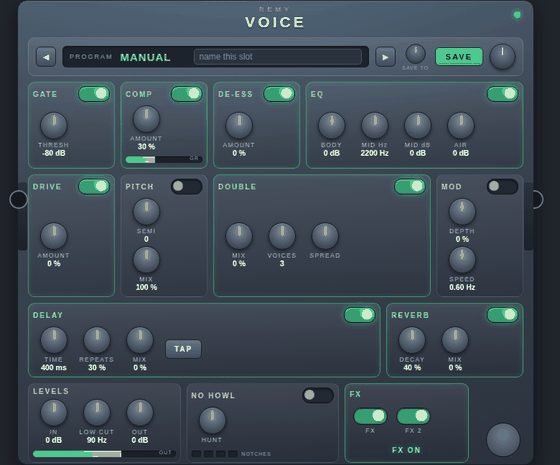
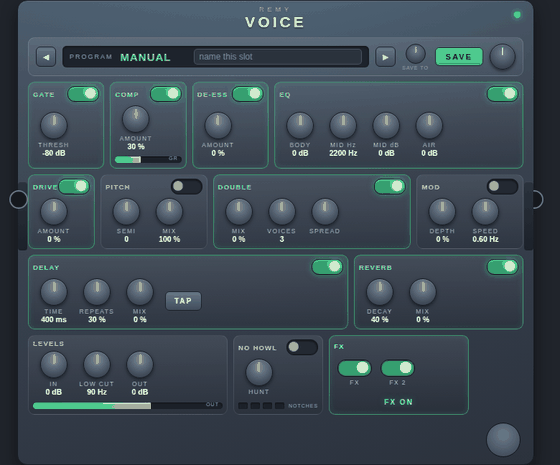
Voice: give every section the width its knobs need
Adding SPREAD to the doubler and a section for the anti-Larsen hunter
pushed two sections into wrapping their knobs onto a second row, which
dragged the whole row down with them. Sections are now sized by how many
knobs they hold - one class per width - rather than by one "wide" class
doing for all of them, and the section names no longer wrap either.

make_screenshot.js also reports where the content actually ends, so the
pedal's declared height can be checked against it rather than guessed.

Claude-Session: https://claude.ai/code/session_01CoYRVsCxy8zQtz4yC9Pa7v

Changed region(s): [[0.0304, 0.1806, 0.9411, 1.0]]

diff --git a/voice/modgui/icon-voice.html b/voice/modgui/icon-voice.html
@@ -46,7 +46,7 @@
 
     <!-- ---------------- the channel strip ---------------- -->
     <div class="voice-row{{{cns}}} voice-row-strip{{{cns}}}">
-        <div class="voice-section{{{cns}}}">
+        <div class="voice-section{{{cns}}} voice-w1{{{cns}}}">
             <div class="voice-section-head{{{cns}}}">
                 <span class="voice-section-name{{{cns}}}">GATE</span>
                 <div class="voice-sw{{{cns}}}" mod-role="input-control-port"
@@ -61,7 +61,7 @@
             </div>
         </div>
 
-        <div class="voice-section{{{cns}}}">
+        <div class="voice-section{{{cns}}} voice-w1{{{cns}}}">
             <div class="voice-section-head{{{cns}}}">
                 <span class="voice-section-name{{{cns}}}">COMP</span>
                 <div class="voice-sw{{{cns}}}" mod-role="input-control-port"
@@ -80,7 +80,7 @@
             </div>
         </div>
 
-        <div class="voice-section{{{cns}}}">
+        <div class="voice-section{{{cns}}} voice-w1{{{cns}}}">
             <div class="voice-section-head{{{cns}}}">
                 <span class="voice-section-name{{{cns}}}">DE-ESS</span>
                 <div class="voice-sw{{{cns}}}" mod-role="input-control-port"
@@ -95,7 +95,7 @@
             </div>
         </div>
 
-        <div class="voice-section{{{cns}}} voice-section-wide{{{cns}}}">
+        <div class="voice-section{{{cns}}} voice-w4{{{cns}}}">
             <div class="voice-section-head{{{cns}}}">
                 <span class="voice-section-name{{{cns}}}">EQ</span>
                 <div class="voice-sw{{{cns}}}" mod-role="input-control-port"
@@ -134,7 +134,7 @@
 
     <!-- ---------------- character ---------------- -->
     <div class="voice-row{{{cns}}} voice-row-char{{{cns}}}">
-        <div class="voice-section{{{cns}}}">
+        <div class="voice-section{{{cns}}} voice-w1{{{cns}}}">
             <div class="voice-section-head{{{cns}}}">
                 <span class="voice-section-name{{{cns}}}">DRIVE</span>
                 <div class="voice-sw{{{cns}}}" mod-role="input-control-port"
@@ -149,7 +149,7 @@
             </div>
         </div>
 
-        <div class="voice-section{{{cns}}}">
+        <div class="voice-section{{{cns}}} voice-w2{{{cns}}}">
             <div class="voice-section-head{{{cns}}}">
                 <span class="voice-section-name{{{cns}}}">PITCH</span>
                 <div class="voice-sw{{{cns}}}" mod-role="input-control-port"
@@ -171,7 +171,7 @@
             </div>
         </div>
 
-        <div class="voice-section{{{cns}}} voice-section-wide{{{cns}}}">
+        <div class="voice-section{{{cns}}} voice-w4{{{cns}}}">
             <div class="voice-section-head{{{cns}}}">
                 <span class="voice-section-name{{{cns}}}">DOUBLE</span>
                 <div class="voice-sw{{{cns}}}" mod-role="input-control-port"
@@ -200,7 +200,7 @@
             </div>
         </div>
 
-        <div class="voice-section{{{cns}}}">
+        <div class="voice-section{{{cns}}} voice-w2{{{cns}}}">
             <div class="voice-section-head{{{cns}}}">
                 <span class="voice-section-name{{{cns}}}">MOD</span>
                 <div class="voice-sw{{{cns}}}" mod-role="input-control-port"
@@ -225,7 +225,7 @@
 
     <!-- ---------------- time ---------------- -->
     <div class="voice-row{{{cns}}} voice-row-time{{{cns}}}">
-        <div class="voice-section{{{cns}}} voice-section-wide{{{cns}}}">
+        <div class="voice-section{{{cns}}} voice-w4{{{cns}}}">
             <div class="voice-section-head{{{cns}}}">
                 <span class="voice-section-name{{{cns}}}">DELAY</span>
                 <div class="voice-sw{{{cns}}}" mod-role="input-control-port"
@@ -256,7 +256,7 @@
                  title="Tap twice to set the time">TAP</div>
         </div>
 
-        <div class="voice-section{{{cns}}}">
+        <div class="voice-section{{{cns}}} voice-w2{{{cns}}}">
             <div class="voice-section-head{{{cns}}}">
                 <span class="voice-section-name{{{cns}}}">REVERB</span>
                 <div class="voice-sw{{{cns}}}" mod-role="input-control-port"
@@ -281,7 +281,7 @@
 
     <!-- ---------------- levels and the master switches ---------------- -->
     <div class="voice-row{{{cns}}} voice-row-out{{{cns}}}">
-        <div class="voice-section{{{cns}}}">
+        <div class="voice-section{{{cns}}} voice-w3{{{cns}}}">
             <div class="voice-section-head{{{cns}}}">
                 <span class="voice-section-name{{{cns}}}">LEVELS</span>
             </div>
@@ -312,7 +312,7 @@
             </div>
         </div>
 
-        <div class="voice-section{{{cns}}}">
+        <div class="voice-section{{{cns}}} voice-w1{{{cns}}}">
             <div class="voice-section-head{{{cns}}}">
                 <span class="voice-section-name{{{cns}}}">NO HOWL</span>
                 <div class="voice-sw{{{cns}}}" mod-role="input-control-port"
@@ -334,7 +334,7 @@
             </div>
         </div>
 
-        <div class="voice-section{{{cns}}} voice-section-fx{{{cns}}}">
+        <div class="voice-section{{{cns}}} voice-w2{{{cns}}} voice-section-fx{{{cns}}}">
             <div class="voice-section-head{{{cns}}}">
                 <span class="voice-section-name{{{cns}}}">FX</span>
             </div>

diff --git a/voice/make_screenshot.js b/voice/make_screenshot.js
@@ -95,8 +95,15 @@ document.querySelector('.voice-light${'_http___remy_live_github_io_lv2_voice'}')
             bas = Math.max(bas, r.bottom - box.bottom);
             droite = Math.max(droite, r.right - box.right);
         }
+        let fond = 0;
+        for (const el of pedal.children) {
+            if (el.className && String(el.className).indexOf('mod-pedal-') === 0) continue;
+            const r = el.getBoundingClientRect();
+            if (r.height > 0) fond = Math.max(fond, r.bottom - box.top);
+        }
         return { bas: Math.round(bas), droite: Math.round(droite),
-                 w: Math.round(box.width), h: Math.round(box.height) };
+                 w: Math.round(box.width), h: Math.round(box.height),
+                 contenu: Math.round(fond) };   /* CONTENT_HEIGHT */
     });
     if (debord.bas > 0 || debord.droite > 0) {
         console.error('the layout overflows the pedal by ' + debord.bas +
@@ -113,5 +120,6 @@ document.querySelector('.voice-light${'_http___remy_live_github_io_lv2_voice'}')
         x: Math.max(0, box.x - 34), y: box.y,
         width: box.width + 68, height: box.height } });
     await browser.close();
-    console.log(cible + ': ' + debord.w + 'x' + debord.h);
+    console.log(cible + ': ' + debord.w + 'x' + debord.h
+                + ' (content ends at ' + debord.contenu + ')');
 })();

diff --git a/voice/modgui/style-voice.css b/voice/modgui/style-voice.css
@@ -166,7 +166,12 @@
     background: linear-gradient(180deg, rgba(255,255,255,.075), rgba(0,0,0,.10));
     border: 1px solid rgba(255,255,255,.11);
 }
-.voice-section-wide{{{cns}}} { flex: 2.7; }
+/* Width by how many knobs a section holds, so nothing wraps onto a
+   second row and drags the whole row down with it. */
+.voice-w1{{{cns}}} { flex: 1; }
+.voice-w2{{{cns}}} { flex: 1.85; }
+.voice-w3{{{cns}}} { flex: 2.7; }
+.voice-w4{{{cns}}} { flex: 3.6; }
 .voice-section{{{cns}}}.actif {
     border-color: rgba(70,224,138,.55);
     box-shadow: 0 0 10px rgba(70,224,138,.18) inset;
@@ -177,7 +182,8 @@
     margin-bottom: 1px;
 }
 .voice-section-name{{{cns}}} {
-    font-size: 10px; font-weight: 700; letter-spacing: 2px; color: #b7cadb;
+    font-size: 9.5px; font-weight: 700; letter-spacing: 1.2px; color: #b7cadb;
+    white-space: nowrap;
 }
 .voice-section{{{cns}}}.actif .voice-section-name{{{cns}}} { color: #8df3bd; }
 
@@ -285,7 +291,7 @@
     color: #2a1c00;
 }
 
-.voice-section-fx{{{cns}}} { flex: .8; align-items: center; }
+.voice-section-fx{{{cns}}} { align-items: center; }
 .voice-fx{{{cns}}} { width: 58px; text-align: center; }
 .voice-fx-sw{{{cns}}} {
     position: relative; width: 46px; height: 22px; margin: 0 auto;
